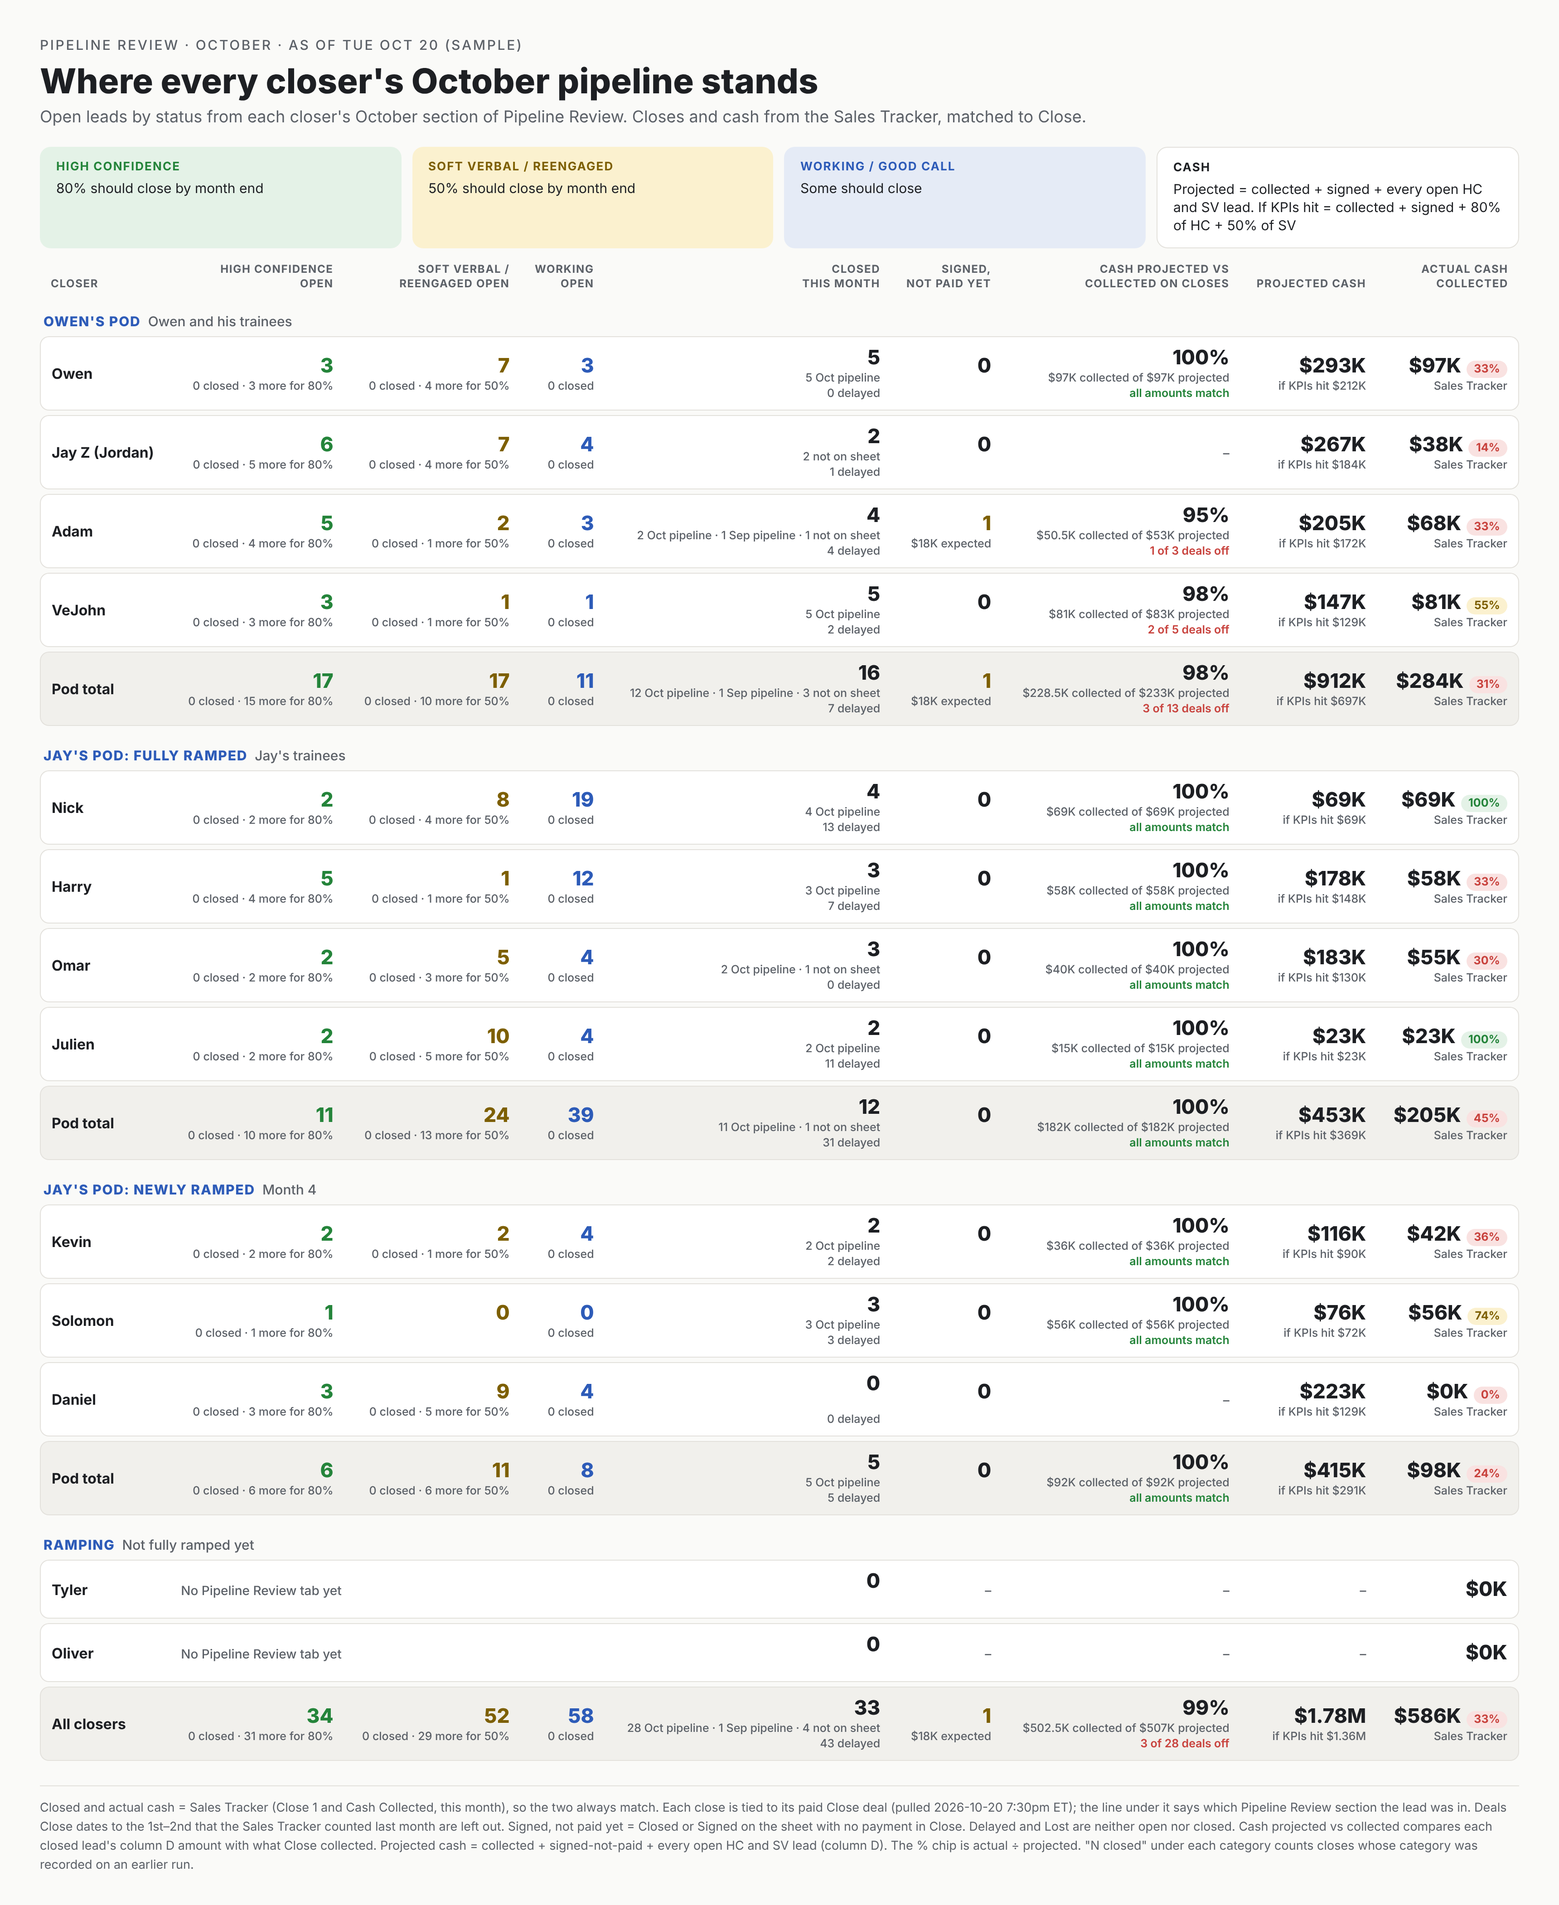
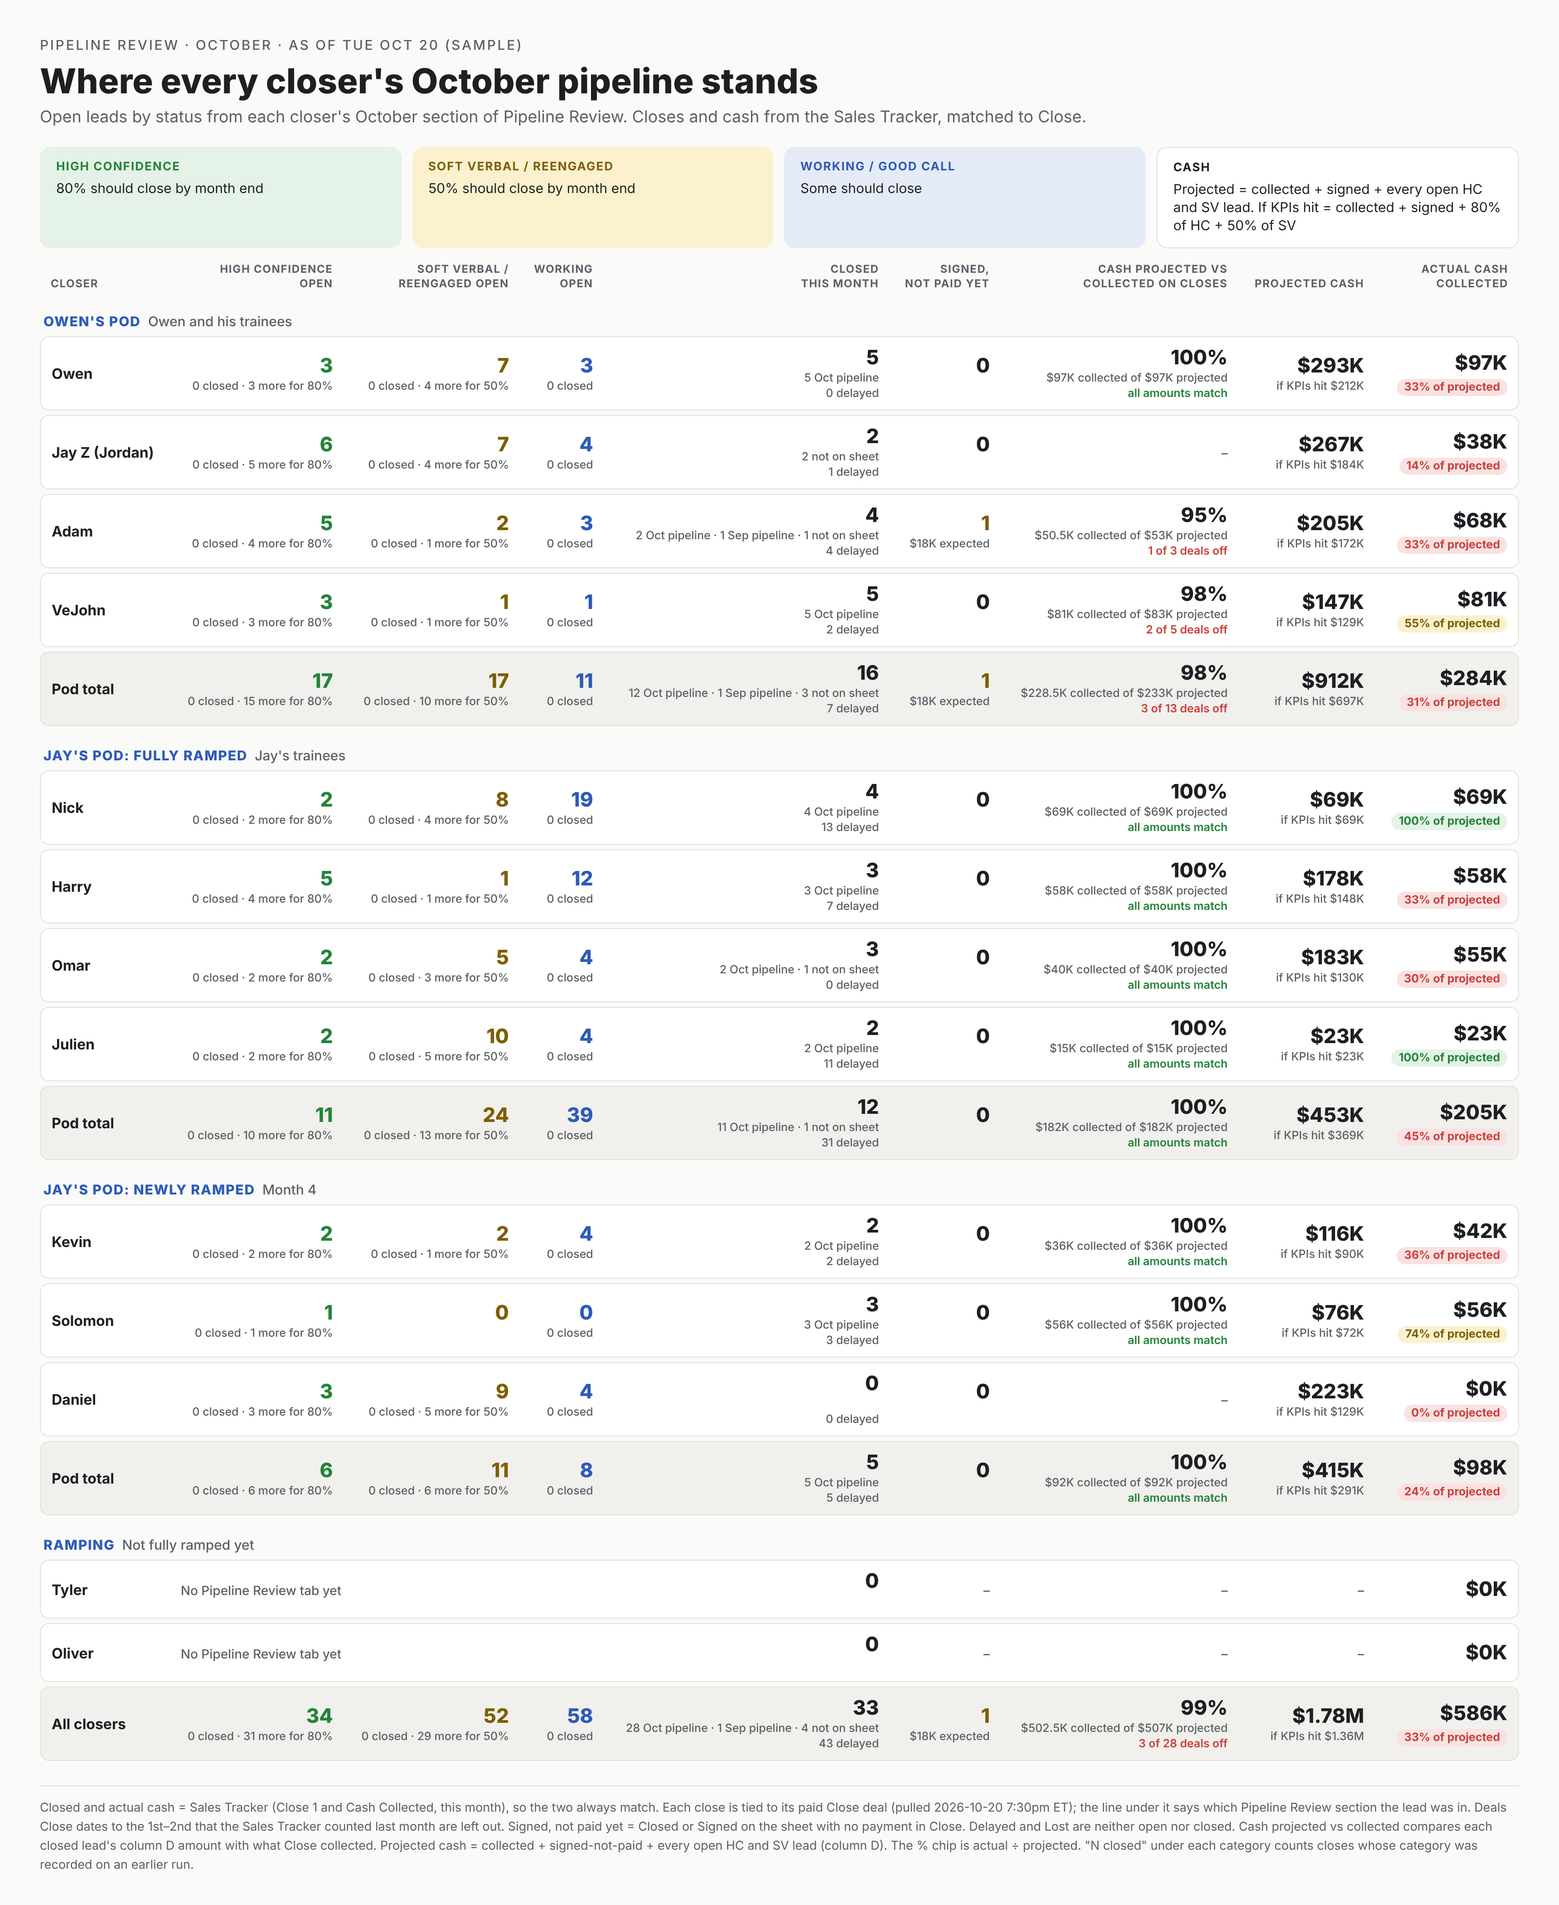
Pipeline report: % of projected under actual cash, verified cash notes for Julien and Kevin
Claude-Session: https://claude.ai/code/session_01HMq4WAAVzMrXZ2MZPK25LL

diff --git a/out/pipeline-2026-10-20.html b/out/pipeline-2026-10-20.html
@@ -26,7 +26,7 @@ tr.tot td{background:#f1f0ec;font-weight:700}
 .ok{display:block;font-size:12.5px;color:var(--hc);font-weight:600;margin-top:2px}
 .warn{display:block;font-size:12.5px;color:var(--red);font-weight:600;margin-top:2px}
 .na{color:var(--muted);font-weight:500;font-size:14px}
-.pct{display:inline-block;font-size:12.5px;font-weight:700;border-radius:999px;padding:2px 8px;margin-left:6px}
+.pct{display:inline-block;font-size:12.5px;font-weight:700;border-radius:999px;padding:2px 8px;margin-top:2px}
 .p-hit{background:var(--hc-bg);color:var(--hc)} .p-mid{background:var(--sv-bg);color:var(--sv)} .p-low{background:var(--red-bg);color:var(--red)}
 .footer{margin-top:22px;padding-top:14px;border-top:1px solid var(--line);font-size:13.5px;line-height:1.55;color:var(--muted)}
 </style></head><body><div class="card">
@@ -50,7 +50,7 @@ tr.tot td{background:#f1f0ec;font-weight:700}
     <td><span class="n">0</span><span class="sub">&nbsp;</span></td>
     <td><span class="n">100%</span><span class="sub">$97K collected of $97K projected</span><span class="ok">all amounts match</span></td>
     <td><span class="n">$293K</span><span class="sub">if KPIs hit $212K</span></td>
-    <td><span class="n">$97K</span><span class="pct p-low">33%</span><span class="sub">Sales Tracker</span></td></tr><tr><td>Jay Z (Jordan)</td>
+    <td><span class="n">$97K</span><span class="sub"><span class="pct p-low">33% of projected</span></span></td></tr><tr><td>Jay Z (Jordan)</td>
     <td><span class="n hc">6</span><span class="sub">0 closed · 5 more for 80%</span></td>
     <td><span class="n sv">7</span><span class="sub">0 closed · 4 more for 50%</span></td>
     <td><span class="n wk">4</span><span class="sub">0 closed</span></td>
@@ -58,7 +58,7 @@ tr.tot td{background:#f1f0ec;font-weight:700}
     <td><span class="n">0</span><span class="sub">&nbsp;</span></td>
     <td><span class="na">–</span></td>
     <td><span class="n">$267K</span><span class="sub">if KPIs hit $184K</span></td>
-    <td><span class="n">$38K</span><span class="pct p-low">14%</span><span class="sub">Sales Tracker</span></td></tr><tr><td>Adam</td>
+    <td><span class="n">$38K</span><span class="sub"><span class="pct p-low">14% of projected</span></span></td></tr><tr><td>Adam</td>
     <td><span class="n hc">5</span><span class="sub">0 closed · 4 more for 80%</span></td>
     <td><span class="n sv">2</span><span class="sub">0 closed · 1 more for 50%</span></td>
     <td><span class="n wk">3</span><span class="sub">0 closed</span></td>
@@ -66,7 +66,7 @@ tr.tot td{background:#f1f0ec;font-weight:700}
     <td><span class="n sv">1</span><span class="sub">$18K expected</span></td>
     <td><span class="n">95%</span><span class="sub">$50.5K collected of $53K projected</span><span class="warn">1 of 3 deals off</span></td>
     <td><span class="n">$205K</span><span class="sub">if KPIs hit $172K</span></td>
-    <td><span class="n">$68K</span><span class="pct p-low">33%</span><span class="sub">Sales Tracker</span></td></tr><tr><td>VeJohn</td>
+    <td><span class="n">$68K</span><span class="sub"><span class="pct p-low">33% of projected</span></span></td></tr><tr><td>VeJohn</td>
     <td><span class="n hc">3</span><span class="sub">0 closed · 3 more for 80%</span></td>
     <td><span class="n sv">1</span><span class="sub">0 closed · 1 more for 50%</span></td>
     <td><span class="n wk">1</span><span class="sub">0 closed</span></td>
@@ -74,7 +74,7 @@ tr.tot td{background:#f1f0ec;font-weight:700}
     <td><span class="n">0</span><span class="sub">&nbsp;</span></td>
     <td><span class="n">98%</span><span class="sub">$81K collected of $83K projected</span><span class="warn">2 of 5 deals off</span></td>
     <td><span class="n">$147K</span><span class="sub">if KPIs hit $129K</span></td>
-    <td><span class="n">$81K</span><span class="pct p-mid">55%</span><span class="sub">Sales Tracker</span></td></tr>
+    <td><span class="n">$81K</span><span class="sub"><span class="pct p-mid">55% of projected</span></span></td></tr>
       <tr class="tot"><td>Pod total</td>
     <td><span class="n hc">17</span><span class="sub">0 closed · 15 more for 80%</span></td>
     <td><span class="n sv">17</span><span class="sub">0 closed · 10 more for 50%</span></td>
@@ -83,7 +83,7 @@ tr.tot td{background:#f1f0ec;font-weight:700}
     <td><span class="n sv">1</span><span class="sub">$18K expected</span></td>
     <td><span class="n">98%</span><span class="sub">$228.5K collected of $233K projected</span><span class="warn">3 of 13 deals off</span></td>
     <td><span class="n">$912K</span><span class="sub">if KPIs hit $697K</span></td>
-    <td><span class="n">$284K</span><span class="pct p-low">31%</span><span class="sub">Sales Tracker</span></td></tr><tr class="pod"><td colspan="9">Jay's pod: fully ramped<span>Jay's trainees</span></td></tr>
+    <td><span class="n">$284K</span><span class="sub"><span class="pct p-low">31% of projected</span></span></td></tr><tr class="pod"><td colspan="9">Jay's pod: fully ramped<span>Jay's trainees</span></td></tr>
       <tr><td>Nick</td>
     <td><span class="n hc">2</span><span class="sub">0 closed · 2 more for 80%</span></td>
     <td><span class="n sv">8</span><span class="sub">0 closed · 4 more for 50%</span></td>
@@ -92,7 +92,7 @@ tr.tot td{background:#f1f0ec;font-weight:700}
     <td><span class="n">0</span><span class="sub">&nbsp;</span></td>
     <td><span class="n">100%</span><span class="sub">$69K collected of $69K projected</span><span class="ok">all amounts match</span></td>
     <td><span class="n">$69K</span><span class="sub">if KPIs hit $69K</span></td>
-    <td><span class="n">$69K</span><span class="pct p-hit">100%</span><span class="sub">Sales Tracker</span></td></tr><tr><td>Harry</td>
+    <td><span class="n">$69K</span><span class="sub"><span class="pct p-hit">100% of projected</span></span></td></tr><tr><td>Harry</td>
     <td><span class="n hc">5</span><span class="sub">0 closed · 4 more for 80%</span></td>
     <td><span class="n sv">1</span><span class="sub">0 closed · 1 more for 50%</span></td>
     <td><span class="n wk">12</span><span class="sub">0 closed</span></td>
@@ -100,7 +100,7 @@ tr.tot td{background:#f1f0ec;font-weight:700}
     <td><span class="n">0</span><span class="sub">&nbsp;</span></td>
     <td><span class="n">100%</span><span class="sub">$58K collected of $58K projected</span><span class="ok">all amounts match</span></td>
     <td><span class="n">$178K</span><span class="sub">if KPIs hit $148K</span></td>
-    <td><span class="n">$58K</span><span class="pct p-low">33%</span><span class="sub">Sales Tracker</span></td></tr><tr><td>Omar</td>
+    <td><span class="n">$58K</span><span class="sub"><span class="pct p-low">33% of projected</span></span></td></tr><tr><td>Omar</td>
     <td><span class="n hc">2</span><span class="sub">0 closed · 2 more for 80%</span></td>
     <td><span class="n sv">5</span><span class="sub">0 closed · 3 more for 50%</span></td>
     <td><span class="n wk">4</span><span class="sub">0 closed</span></td>
@@ -108,7 +108,7 @@ tr.tot td{background:#f1f0ec;font-weight:700}
     <td><span class="n">0</span><span class="sub">&nbsp;</span></td>
     <td><span class="n">100%</span><span class="sub">$40K collected of $40K projected</span><span class="ok">all amounts match</span></td>
     <td><span class="n">$183K</span><span class="sub">if KPIs hit $130K</span></td>
-    <td><span class="n">$55K</span><span class="pct p-low">30%</span><span class="sub">Sales Tracker</span></td></tr><tr><td>Julien</td>
+    <td><span class="n">$55K</span><span class="sub"><span class="pct p-low">30% of projected</span></span></td></tr><tr><td>Julien</td>
     <td><span class="n hc">2</span><span class="sub">0 closed · 2 more for 80%</span></td>
     <td><span class="n sv">10</span><span class="sub">0 closed · 5 more for 50%</span></td>
     <td><span class="n wk">4</span><span class="sub">0 closed</span></td>
@@ -116,7 +116,7 @@ tr.tot td{background:#f1f0ec;font-weight:700}
     <td><span class="n">0</span><span class="sub">&nbsp;</span></td>
     <td><span class="n">100%</span><span class="sub">$15K collected of $15K projected</span><span class="ok">all amounts match</span></td>
     <td><span class="n">$23K</span><span class="sub">if KPIs hit $23K</span></td>
-    <td><span class="n">$23K</span><span class="pct p-hit">100%</span><span class="sub">Sales Tracker</span></td></tr>
+    <td><span class="n">$23K</span><span class="sub"><span class="pct p-hit">100% of projected</span></span></td></tr>
       <tr class="tot"><td>Pod total</td>
     <td><span class="n hc">11</span><span class="sub">0 closed · 10 more for 80%</span></td>
     <td><span class="n sv">24</span><span class="sub">0 closed · 13 more for 50%</span></td>
@@ -125,7 +125,7 @@ tr.tot td{background:#f1f0ec;font-weight:700}
     <td><span class="n">0</span><span class="sub">&nbsp;</span></td>
     <td><span class="n">100%</span><span class="sub">$182K collected of $182K projected</span><span class="ok">all amounts match</span></td>
     <td><span class="n">$453K</span><span class="sub">if KPIs hit $369K</span></td>
-    <td><span class="n">$205K</span><span class="pct p-low">45%</span><span class="sub">Sales Tracker</span></td></tr><tr class="pod"><td colspan="9">Jay's pod: newly ramped<span>Month 4</span></td></tr>
+    <td><span class="n">$205K</span><span class="sub"><span class="pct p-low">45% of projected</span></span></td></tr><tr class="pod"><td colspan="9">Jay's pod: newly ramped<span>Month 4</span></td></tr>
       <tr><td>Kevin</td>
     <td><span class="n hc">2</span><span class="sub">0 closed · 2 more for 80%</span></td>
     <td><span class="n sv">2</span><span class="sub">0 closed · 1 more for 50%</span></td>
@@ -134,7 +134,7 @@ tr.tot td{background:#f1f0ec;font-weight:700}
     <td><span class="n">0</span><span class="sub">&nbsp;</span></td>
     <td><span class="n">100%</span><span class="sub">$36K collected of $36K projected</span><span class="ok">all amounts match</span></td>
     <td><span class="n">$116K</span><span class="sub">if KPIs hit $90K</span></td>
-    <td><span class="n">$42K</span><span class="pct p-low">36%</span><span class="sub">Sales Tracker</span></td></tr><tr><td>Solomon</td>
+    <td><span class="n">$42K</span><span class="sub"><span class="pct p-low">36% of projected</span></span></td></tr><tr><td>Solomon</td>
     <td><span class="n hc">1</span><span class="sub">0 closed · 1 more for 80%</span></td>
     <td><span class="n sv">0</span><span class="sub">&nbsp;</span></td>
     <td><span class="n wk">0</span><span class="sub">0 closed</span></td>
@@ -142,7 +142,7 @@ tr.tot td{background:#f1f0ec;font-weight:700}
     <td><span class="n">0</span><span class="sub">&nbsp;</span></td>
     <td><span class="n">100%</span><span class="sub">$56K collected of $56K projected</span><span class="ok">all amounts match</span></td>
     <td><span class="n">$76K</span><span class="sub">if KPIs hit $72K</span></td>
-    <td><span class="n">$56K</span><span class="pct p-mid">74%</span><span class="sub">Sales Tracker</span></td></tr><tr><td>Daniel</td>
+    <td><span class="n">$56K</span><span class="sub"><span class="pct p-mid">74% of projected</span></span></td></tr><tr><td>Daniel</td>
     <td><span class="n hc">3</span><span class="sub">0 closed · 3 more for 80%</span></td>
     <td><span class="n sv">9</span><span class="sub">0 closed · 5 more for 50%</span></td>
     <td><span class="n wk">4</span><span class="sub">0 closed</span></td>
@@ -150,7 +150,7 @@ tr.tot td{background:#f1f0ec;font-weight:700}
     <td><span class="n">0</span><span class="sub">&nbsp;</span></td>
     <td><span class="na">–</span></td>
     <td><span class="n">$223K</span><span class="sub">if KPIs hit $129K</span></td>
-    <td><span class="n">$0K</span><span class="pct p-low">0%</span><span class="sub">Sales Tracker</span></td></tr>
+    <td><span class="n">$0K</span><span class="sub"><span class="pct p-low">0% of projected</span></span></td></tr>
       <tr class="tot"><td>Pod total</td>
     <td><span class="n hc">6</span><span class="sub">0 closed · 6 more for 80%</span></td>
     <td><span class="n sv">11</span><span class="sub">0 closed · 6 more for 50%</span></td>
@@ -159,7 +159,7 @@ tr.tot td{background:#f1f0ec;font-weight:700}
     <td><span class="n">0</span><span class="sub">&nbsp;</span></td>
     <td><span class="n">100%</span><span class="sub">$92K collected of $92K projected</span><span class="ok">all amounts match</span></td>
     <td><span class="n">$415K</span><span class="sub">if KPIs hit $291K</span></td>
-    <td><span class="n">$98K</span><span class="pct p-low">24%</span><span class="sub">Sales Tracker</span></td></tr><tr class="pod"><td colspan="9">Ramping<span>Not fully ramped yet</span></td></tr>
+    <td><span class="n">$98K</span><span class="sub"><span class="pct p-low">24% of projected</span></span></td></tr><tr class="pod"><td colspan="9">Ramping<span>Not fully ramped yet</span></td></tr>
       <tr><td>Tyler</td><td colspan="3" style="text-align:left"><span class="na">No Pipeline Review tab yet</span></td>
       <td><span class="n">0</span><span class="sub">&nbsp;</span></td><td><span class="na">–</span></td><td><span class="na">–</span></td><td><span class="na">–</span></td>
       <td><span class="n">$0K</span></td></tr><tr><td>Oliver</td><td colspan="3" style="text-align:left"><span class="na">No Pipeline Review tab yet</span></td>
@@ -174,7 +174,7 @@ tr.tot td{background:#f1f0ec;font-weight:700}
     <td><span class="n sv">1</span><span class="sub">$18K expected</span></td>
     <td><span class="n">99%</span><span class="sub">$502.5K collected of $507K projected</span><span class="warn">3 of 28 deals off</span></td>
     <td><span class="n">$1.78M</span><span class="sub">if KPIs hit $1.36M</span></td>
-    <td><span class="n">$586K</span><span class="pct p-low">33%</span><span class="sub">Sales Tracker</span></td></tr>
+    <td><span class="n">$586K</span><span class="sub"><span class="pct p-low">33% of projected</span></span></td></tr>
   </table>
   <div class="footer">
     Closed and actual cash = Sales Tracker (Close 1 and Cash Collected, this month), so the two always match. Each close is tied to its paid Close deal (pulled 2026-10-20 7:30pm ET); the line under it says which Pipeline Review section the lead was in. Deals Close dates to the 1st–2nd that the Sales Tracker counted last month are left out.

diff --git a/out/pipeline-2026-10-20-flags.md b/out/pipeline-2026-10-20-flags.md
@@ -11,7 +11,7 @@
 - JZ: Neal Simpson: paid $17,500 in Close on 10-19, not on Pipeline Review
 - VeJohn: Jack Walsh: projected $16,000, collected $15,000 in Close
 - VeJohn: Shawn O'Donnell: projected $16,000, collected $15,000 in Close
-- Julien: Sales Tracker cash $22,500 vs $30,000 on the closer's paid Close deals
+- Julien: Sales Tracker cash $22,500 vs $30,000 on the closer's paid Close deals. #cash-collected: one Whop payment for Brian Carvajal, $7,500 on Oct 20, and no earlier payment. The Sales Tracker's $7,500 matches; Close records $15,000 collected (PIF), so Close is ahead of the actual payment.
 - Julien: Brian Carvajal: no projected amount on the sheet; Close shows $15,000 collected
 - Julien: 12 open High Confidence / Soft Verbal leads have no cash amount
 - Nick: 10 open High Confidence / Soft Verbal leads have no cash amount
@@ -20,7 +20,7 @@
 - Harry: Christopher Cheung: paid $15,000 in Close on 10-01; Sales Tracker counts it in the prior month, so it is left out
 - Harry: Robert Kolansky: paid $18,000 in Close on 10-01; Sales Tracker counts it in the prior month, so it is left out
 - Solomon: status labels to fix: blank status, "Verbal" (counted as High Confidence)
-- Kevin: Sales Tracker cash $42,000 vs $36,000 on the closer's paid Close deals
+- Kevin: Sales Tracker cash $42,000 vs $36,000 on the closer's paid Close deals. #cash-collected: Dmitry Kopylovsky paid $12,000 on Sep 29 and $6,000 on Oct 8 (split payment). The $6K in October is the balance of a September close, so it is October cash with no October close.
 - Oliver: no Pipeline Review tab
 - Tyler: no Pipeline Review tab
 - Yobani (not a closer): paid $20,000 in Close on 10-09
